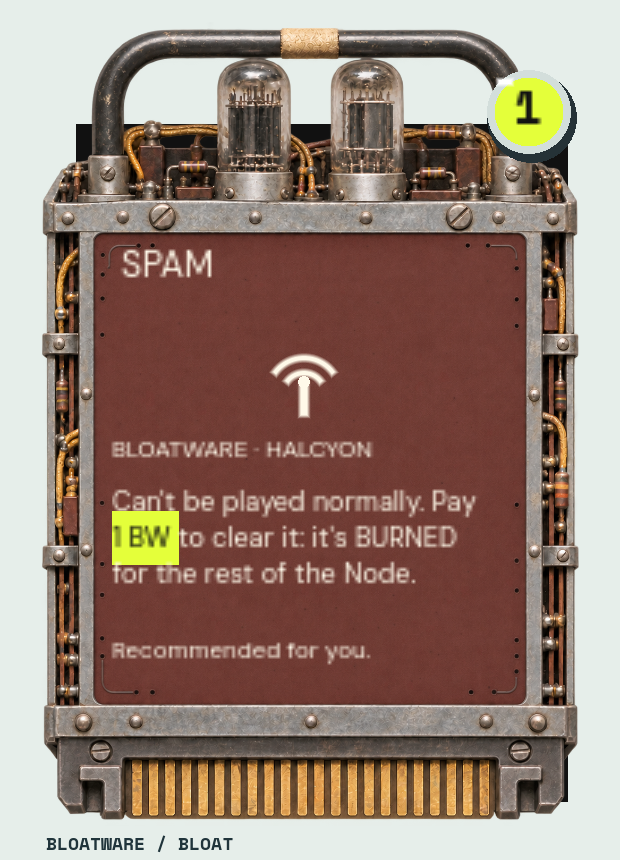
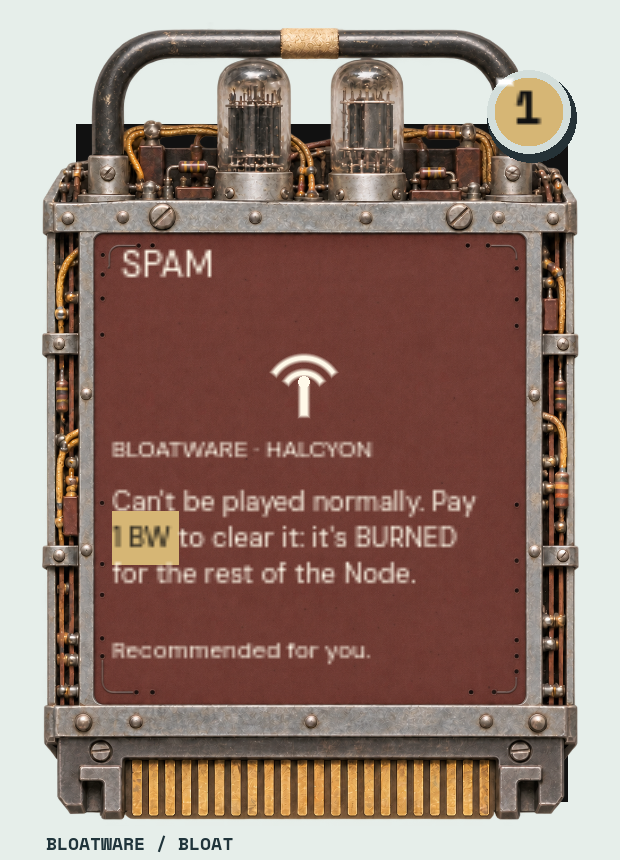
CARDS-001: replace neon accents with instrument amber

Changed region(s): [[0.1532, 0.5744, 0.3065, 0.6651], [0.7968, 0.0907, 0.9194, 0.1814]]

diff --git a/docs/HALCYON_PLAYTEST_GUIDE.md b/docs/HALCYON_PLAYTEST_GUIDE.md
@@ -121,7 +121,7 @@ The CAPTCHA fixture uses actual AUTO-RENEW/CAPTCHA stats and Generalist cards. T
 
 At TRACE 20 the same atrium reveals a partial surveillance view. First strike shows hostile lighting and the existing “We see you.” modal; second strike reveals the cameras, processing rails and restraint stations while the paper interface remains unchanged. All thresholds and TRACER/Black ICE effects still come from Game.
 
-For the interaction sample, drag the installed FORTRESS Icepick onto AUTO-RENEW S1. Legal rows have dashed dark-teal outlines; the hovered target has a solid outline and the separate top-center feedback box shows the exact BW cost and MARGIN. In this fixture the initial break costs 3 BW including boosts. Release to break: the rule is struck through, AUTO-RENEW becomes wary, and the feedback confirms the cost. Dragging that FORTRESS pick onto CAPTCHA instead shows a red outline and “NO TUMBLER ICEPICK”; releasing spends nothing. The small drag cursor avoids putting a duplicate card-length label or native tooltip over rules. Card hover/keyboard browsing raises the card with a lime paper edge. Existing reduced-motion and five-second-response behaviour remain.
+For the interaction sample, drag the installed FORTRESS Icepick onto AUTO-RENEW S1. Legal rows have dashed dark-teal outlines; the hovered target has a solid outline and the separate top-center feedback box shows the exact BW cost and MARGIN. In this fixture the initial break costs 3 BW including boosts. Release to break: the rule is struck through, AUTO-RENEW becomes wary, and the feedback confirms the cost. Dragging that FORTRESS pick onto CAPTCHA instead shows a red outline and “NO TUMBLER ICEPICK”; releasing spends nothing. The small drag cursor avoids putting a duplicate card-length label or native tooltip over rules. Card hover/keyboard browsing raises the card with a warm instrument-amber edge. Existing reduced-motion and five-second-response behaviour remain.
 
 
 ## CARDS-001 — vintage slot cartridges

diff --git a/docs/REDLINE_DEVELOPMENT_LOG.md b/docs/REDLINE_DEVELOPMENT_LOG.md
@@ -526,3 +526,11 @@ GENERALIST also has two stalls, counted separately from deaths. Mean end decks G
 **Changed:** tobacco-brown SCRIPT, earthy olive PROGRAM, muted blue-green PROTOCOL; direct light printing on real board-style textures. BLOATWARE now has the Whirlwind-inspired protective U-handle, paired tubes, open cage/stacked boards and oxide-red phenolic face. Names, costs and rules are live controls. TRACER/SPAM remain BLOATWARE with unchanged unplayability/clear/TRACE rules; both now use the same component-aware bounds as other cartridges. Cached Bloatware retains full rules and CACHED marker; optional corporate flavour footer yields space when cached. No white card text panels remain. A–D review labels denote the four types; source-reference letters A/C/D remain palette provenance.
 
 **Validation:** Godot 4.3 import, 357 rules checks and 170 Friendly Lie UI checks pass. Extended cartridge fixture passes 625 checks and covers all authored/compiled texts, both Bloatware examples including cached text, component bounds and a mixed-type hand. Selected older log entry appended unchanged to the archive under LOG-001. Asset sources/guide/status/HANDOFF and PNGs are updated. No card definitions, rarity weights, costs or gameplay values changed. PR #12 remains open for integrated review before merge.
+
+## 2026-11-17 — CARDS-001: instrument amber accents (Codex)
+
+**Commit tag:** `cards-001-amber`. Replaced neon yellow-green with warm instrument amber (`#D6B675`) for the shared highlight and printed numeric highlights. The brass/gauge reference fits the selected brown, olive, teal and oxide-red boards. BW badges, selection accents and shared HUD controls inherit the same colour. No rules or costs changed.
+
+**Interpretations to confirm:** exact amber hue is a visual proposal for designer review. PR #12 remains open.
+
+**Validation:** 357 rules checks and 625 cartridge UI checks pass; updated four-type PNG rendered from live Godot controls.

diff --git a/docs/HANDOFF.md b/docs/HANDOFF.md
@@ -46,7 +46,7 @@ ZEROED-001, its RIOT cards, and TUMBLE-001 are built; see the tagged rows below.
 
 | IDs | Change | Commit reference |
 |---|---|---|
-| CARDS-001 | Heavy SCRIPT/PROGRAM/PROTOCOL slot-cartridge templates; external BW rating tabs; brown/olive/teal board faces, oxide-red Whirlwind Bloatware and direct-print titles; common/uncommon/rare finish details; protected protrusions; nine close-ups and six/eight-card captures. Types, rarity weights, costs and rules unchanged. | **BUILT** — `cards-001-board-palette` |
+| CARDS-001 | Heavy SCRIPT/PROGRAM/PROTOCOL slot-cartridge templates; external BW rating tabs; brown/olive/teal board faces, oxide-red Whirlwind Bloatware and direct-print titles; common/uncommon/rare finish details; protected protrusions; nine close-ups and six/eight-card captures. Types, rarity weights, costs and rules unchanged. | **BUILT** — `cards-001-amber` |
 | CHROME-001 | Refine the CAPTCHA encounter in the designer-selected Chrome Deco direction: readable real rules/cards, illustrated mascot shells, atrium, corporate escalation and native interaction feedback. Ten refreshed full-screen PNG samples; pearl-enamel ICE service plaques; type-specific heavy slot cartridges with outside BW tabs and restrained rarity finishes; prototype art and final fidelity await review. | **BUILT** — `chrome-001-enamel` (code `chrome-001-step5`) |
 | VIS-001 | The Friendly Lie encounter: fonts/skins, zine hand/HUD, mascot scans and moods, corporation break states, drag/motion/accessibility, seven PNG review fixtures. Visual only; ZEROED/TUMBLE integrated first. | **BUILT** — `vis-001g` (steps `vis-001a`–`vis-001g`) |
 | TUMBLE-001 | Remove broken TUMBLER subs and tumble immediately active replacements | **BUILT** — `zeroed-tumble-step3` |
